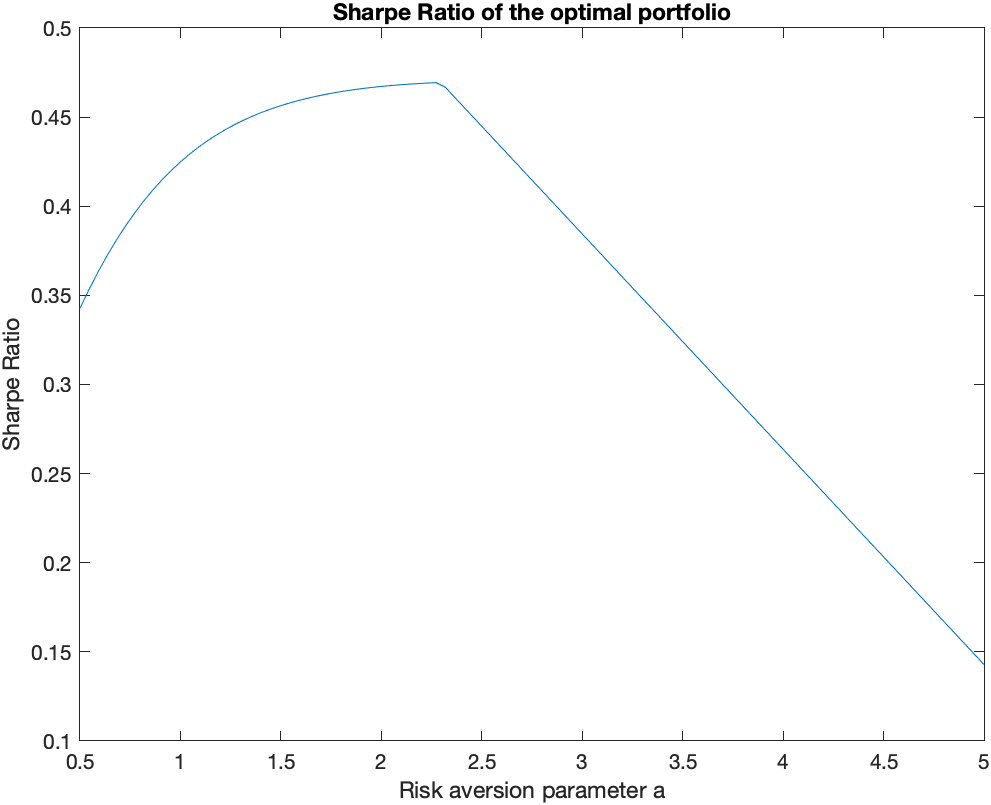
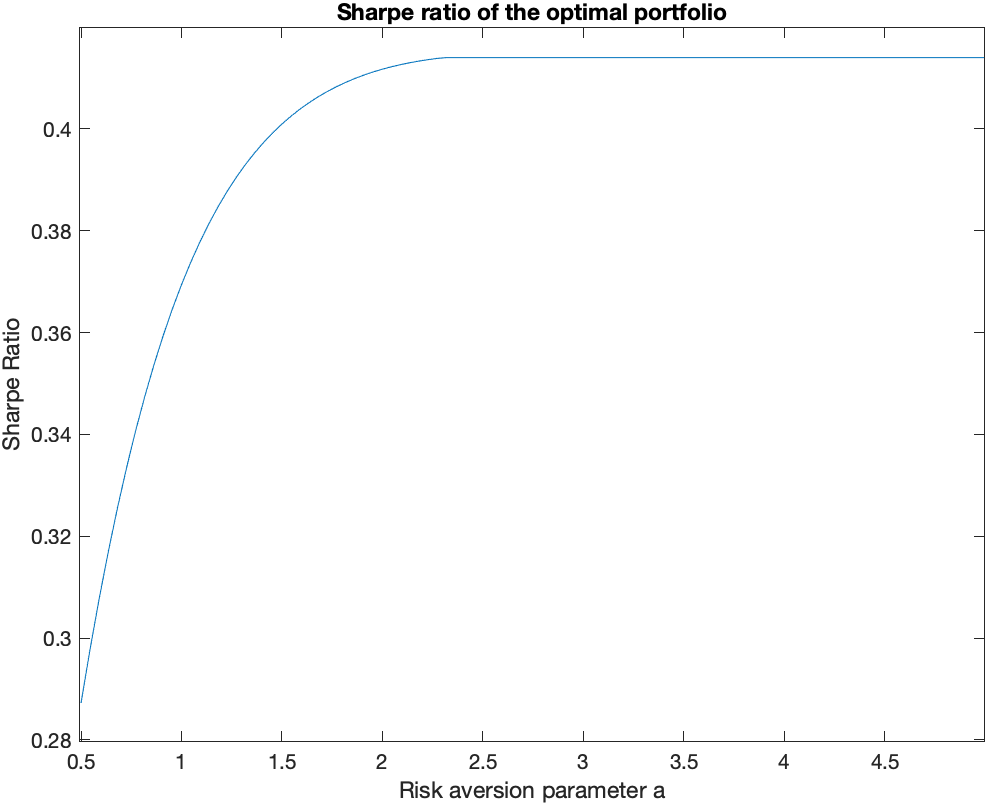
Final editing

diff --git a/hw5/solution.tex b/hw5/solution.tex
@@ -95,14 +95,14 @@
 \begin{exercise}{1}
   \begin{itemize}
     \item The tangency portfolio is the optimal weights solution for the variance minimization problem:
-    $$ \min_w{\frac{1}{2}w'\Sigma w} \quad \text{ with the constraints } (\mu-R_0\mathbbm{1})'w = \mu_p-R_0 \text{ and } w'\mathbbm{1} = 1$$ which can be solved by using a Lagrangian function: $L(w,\lambda) =  \frac{1}{2}w'\Sigma w - \lambda((\mu-R_0\mathbbm{1})'w - \mu_p-R_0)$. 
+    $$ \min_w{\frac{1}{2}w'\Sigma w} \quad \text{ with the constraints } (\mu-R_0\mathbbm{1})'w = \mu_p-R_0 \text{ and } w'\mathbbm{1} = 1$$ which can be solved by using a Lagrangian function: $$L(w,\lambda) =  \frac{1}{2}w'\Sigma w - \lambda((\mu-R_0\mathbbm{1})'w - \mu_p-R_0)$$. 
     \\
     We derive with respect to the two parameters:
     \begin{align*}
       &\frac{\partial L}{\partial w} = \Sigma w -\lambda (\mu-R_0\mathbbm{1}) = 0 \\
       &\frac{\partial L}{\partial \lambda} = (\mu-R_0\mathbbm{1})'w - \mu_p-R_0 = 0 
     \end{align*}
-    And, thus: $w = \lambda\Sigma^{-1}(\mu-R_0\mathbbm{1})$. $\lambda$ can be calculated using the second constraint (the sum of weights equals $1$, only risky-assets in the portfolio). So, we obtain:
+    And, thus: $w = \lambda\Sigma^{-1}(\mu-R_0\mathbbm{1})$. $\lambda$ can be calculated using the second constraint (the sum of weights equals $1$, as there are only risky-assets in the portfolio). So, we obtain:
     $$ \lambda = (\mathbbm{1}'\Sigma^{-1}(\mu-R_0\mathbbm{1}))^{-1}$$
     
     Using the course notations, with $A = \mathbbm{1}'\Sigma^{-1}\mu$ and $B=\mathbbm{1}'\Sigma^{-1}\mathbbm{1}$, we end up with:
@@ -114,8 +114,8 @@
       0.0075  &  0.0625  &  0.0150\\
       0.0090  &  0.0150  &  0.0900
     \end{array} } \right]$$ since $Cov(i,j) = Corr(i,j)\sigma_i\sigma_j$. Because $A = 54.4444$ and $B = 5.4778$, so the tangency portfolio has the following weights: $$ w_t = (0.4407, 0.2886, 0.2707)$$ 
-    The tangency mean and standard deviation are $\mu_t = w_t'\mu = 11.22\%$ and $\sigma_t = \sqrt{w_t'\Sigma w_t} = 15.02\%$. Its Sharpe Ratio is $SR_t = \frac{\mu_t - R_0}{\sigma_t} = 0.4140$. 
-    \item To find the zero beta portfolio $w_z$, the portfolio has to satisfy $w_z'\Sigma w_t = 0$ and is of the form $w = \lambda\Sigma^{-1}\mathbbm{1}+ \gamma\Sigma^{-1}\mu$ since it is also a mean-variance portfolio. Using the previous results, we can rewrite it as:
+    The tangency mean and standard deviation are $\mu_t = w_t'\mu = 0.1122$ and $\sigma_t = \sqrt{w_t'\Sigma w_t} = 0.1502$. Its Sharpe Ratio is $SR_t = \frac{\mu_t - R_0}{\sigma_t} = 0.4140$. 
+    \item To find the zero beta portfolio $w_z$, the portfolio has to satisfy $w_z'\Sigma w_t = 0$ and must be of the form $w = \lambda\Sigma^{-1}\mathbbm{1}+ \gamma\Sigma^{-1}\mu$ since it is also a mean-variance portfolio. Using the previous results, we can rewrite it as:
     \begin{align*}
       0 &= w_z'\Sigma(\frac{1}{B-AR_0}\Sigma^{-1}(\mu-R_0\mathbbm{1})) \\
       &= \frac{1}{B-AR_0}w_z'(\mu-R_0\mathbbm{1}) \\
@@ -173,15 +173,15 @@
   Now we give the mean, standard deviation and Sharpe ratios in the two cases:
   \\
   First, commonly known: 
-  $$ \mu_p = \frac{1-B/a}{A}B + \frac{C}{a}$$
-  $$ \sigma_p = \sqrt{\frac{1-B/a}{A} + \frac{\mu_p}{a}}$$
-  $$ SR_p = \frac{\mu_p-R_0}{\sigma_p} $$
+  $$ \mu_p = \frac{B-AR_0}{a}\mu_{tan} + (1-\frac{B-AR_0}{a})R_0  = \frac{C-BR_0}{a} + (1-\frac{B-AR_0}{a})R_0$$
+  $$ \sigma_p = x_t\sigma_t$$
+  $$ SR_p = \frac{\mu_p-R_0}{\sigma_p} = SR_t $$ since the $x_t$ factor cancels.
   
   And in the second case:
-  $$ \mu_p = x_t\mu_t + x_z\mu_z = x_t(\mu_t -R_0) + mR_0$$
+  $$ \mu_p = x_t\mu_t + x_z\mu_z = x_t(\mu_t -R_0) + R_0$$
   $$ \sigma_p = \sqrt{x_t^2\sigma_t^2 + x_z^2\sigma_z^2}$$
-  $$ SR_p = \frac{\mu_p -R_0 }{\sqrt{x_t^2\sigma_t^2 + x_z^2\sigma_z^2}}$$
-
+  $$ SR_p = \frac{\mu_p -R_0 }{\sqrt{x_t^2\sigma_t^2 + x_z^2\sigma_z^2}} = \frac{x_t(\mu_t-R_0)}{\sqrt{x_t^2\sigma_t^2 + x_z^2\sigma_z^2}}$$
+because $$ x_t = x_z +  \frac{2}{a}\frac{\mu_t-\mu_z}{\sigma_t^2+\sigma_z^2}$$
 \item The two previous cases imply two cases for the risk aversion, meaning there exists $a^\star$ that separates $a$ in each case. 
 \\
 In the first case, we have: $\frac{SR_t}{a\sigma_t} < m$ and thus $a > \frac{SR_t}{m\sigma_t}$. So we can set $a^\star :=  \frac{SR_t}{m\sigma_t}$. In this situation, $x_z = 0$ and the investor does not invest in the zero beta portfolio. And in the second case, we also have $a = \frac{SR_t/\sigma_t}{m}(1-\lambda/\sigma_t^2-\lambda/\sigma_z^2) < \frac{SR_t}{m\sigma_t} = a^\star$ since $\lambda \geq 0$. Here, $x_z >0$, so the investor will invest in the zero beta portfolio. 
@@ -190,9 +190,9 @@ We now give the values for the different weights and portfolios:
 \begin{itemize}
   \item First case, take $a > a^\star = 2.2963$, for example $a = 3$: $x_z = 0$ and $x_t = SR_t/a\sigma_t = 0.9185$. So $w_p = (0.4048, 0.2651, 0.2487)$. The expected return, standard deviation and Sharpe ratio of this portfolio is: 
   \begin{align*}
-    \mu_p = 10.31\% \\
+    \mu_p = 10.71\% \\
     \sigma_p = 13.80\% \\
-    SR_p = 0.3848
+    SR_p = SR_t = 0.4140
   \end{align*}
   \item In the second case, we can select $a = 2$. We get the weights: 
    $$ x_t = 1.2331, \quad x_z = -0.0331$$
@@ -200,10 +200,10 @@ We now give the values for the different weights and portfolios:
    \begin{align*}
     \mu_p = 13.67\%\\
     \sigma_p = 18.55\% \\
-    SR_p = 0.4674
+    SR_p = 0.4117
    \end{align*} 
 \end{itemize}
-  \item The graph of the Sharpe Ratio of the optimal portfolio can be found in Figure \ref{SR}.
+  \item The graph of the Sharpe Ratio of the optimal portfolio can be found in Figure \ref{SR}. We can see that when $a>a^\star$, when we are investing in the unconstrained portfolio, that is only composed of the tangency portfolio and risk-free asset, the Sharpe ratio is constant. This ratio is the one of the tangency portfolio. So the risk-aversion parameter does not have any impact on the Sharpe ratio of the optimal portfolio. However, in the other case, $a<a^\star$, the Sharpe Ratio decreases with the risk aversion. Indeed, the investor has a greater leverage than $m$ but he is constrained with $x_t + x_z = m$ and so he cannot achieve the given portfolios. Moreover, we see that for an unconstrained investor, the optimal portfolio is the one with only investments in the tangency portfolio and in the risk free rate. So its Sharpe ratio should be lower than $SR_t$ which is indeed the case on the figure. 
   \begin{figure}[H]
     \centering
     \includegraphics[scale = 0.8]{Figures/SharpeRatio.png}
